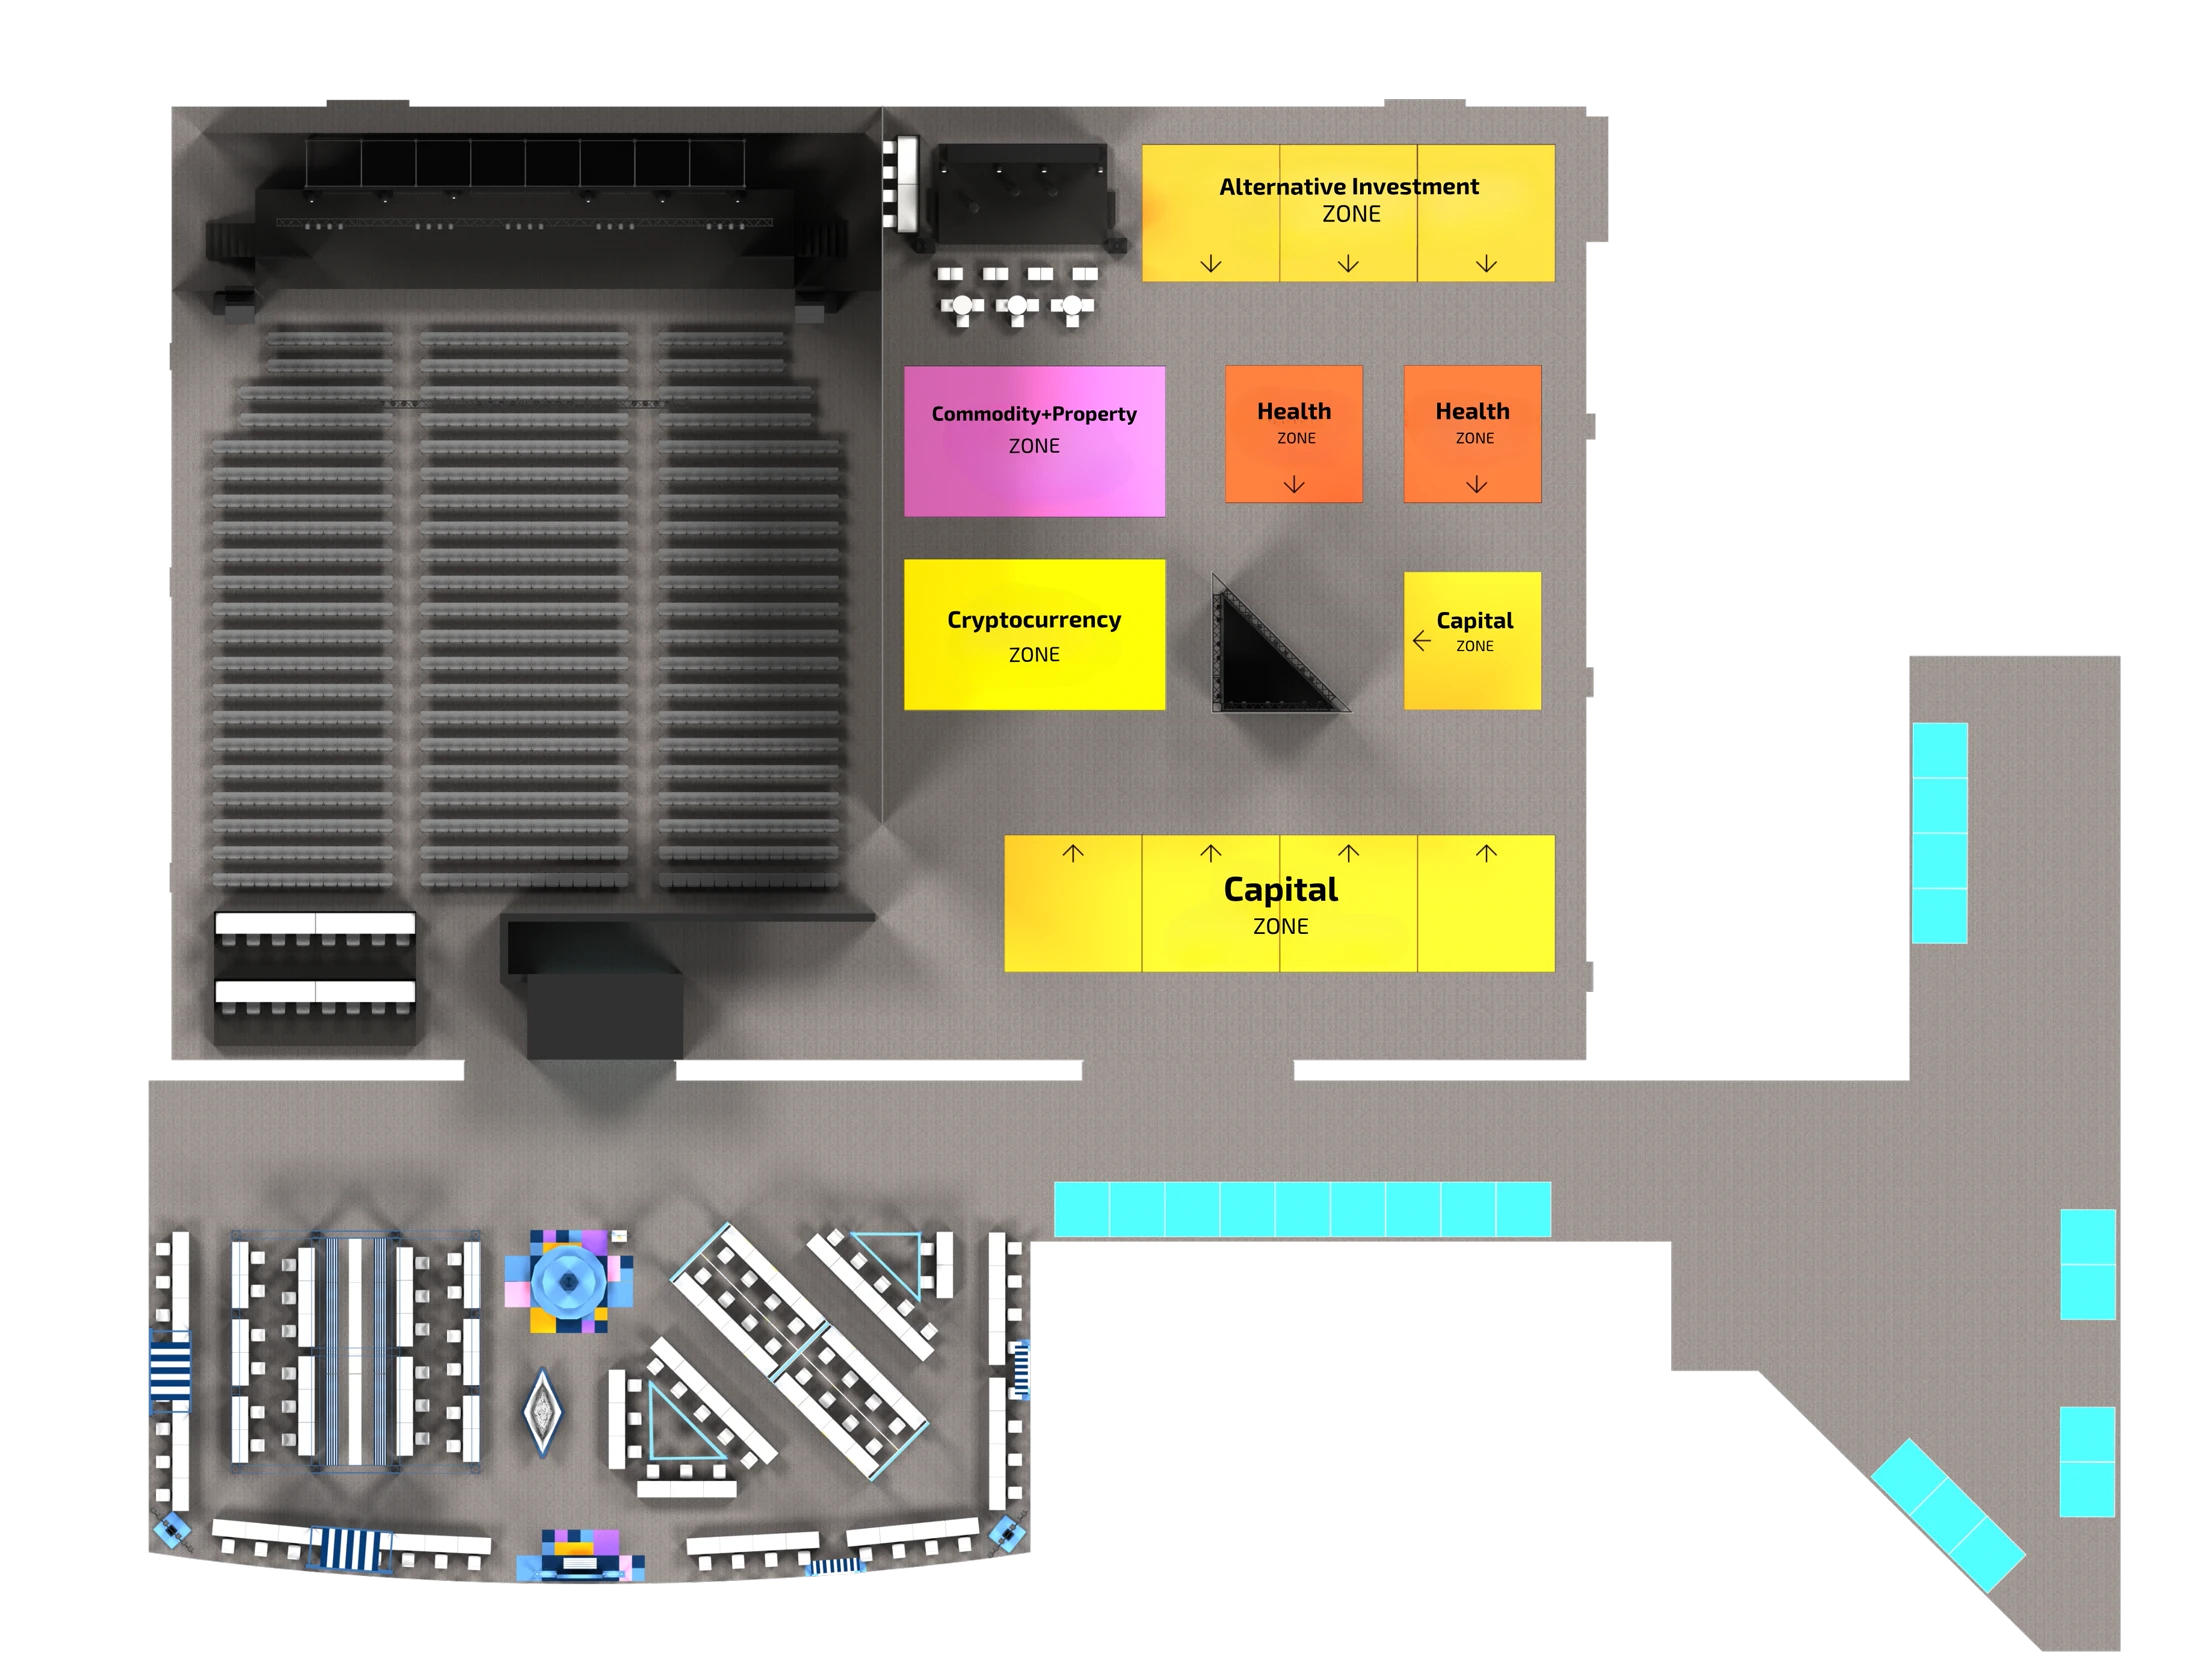
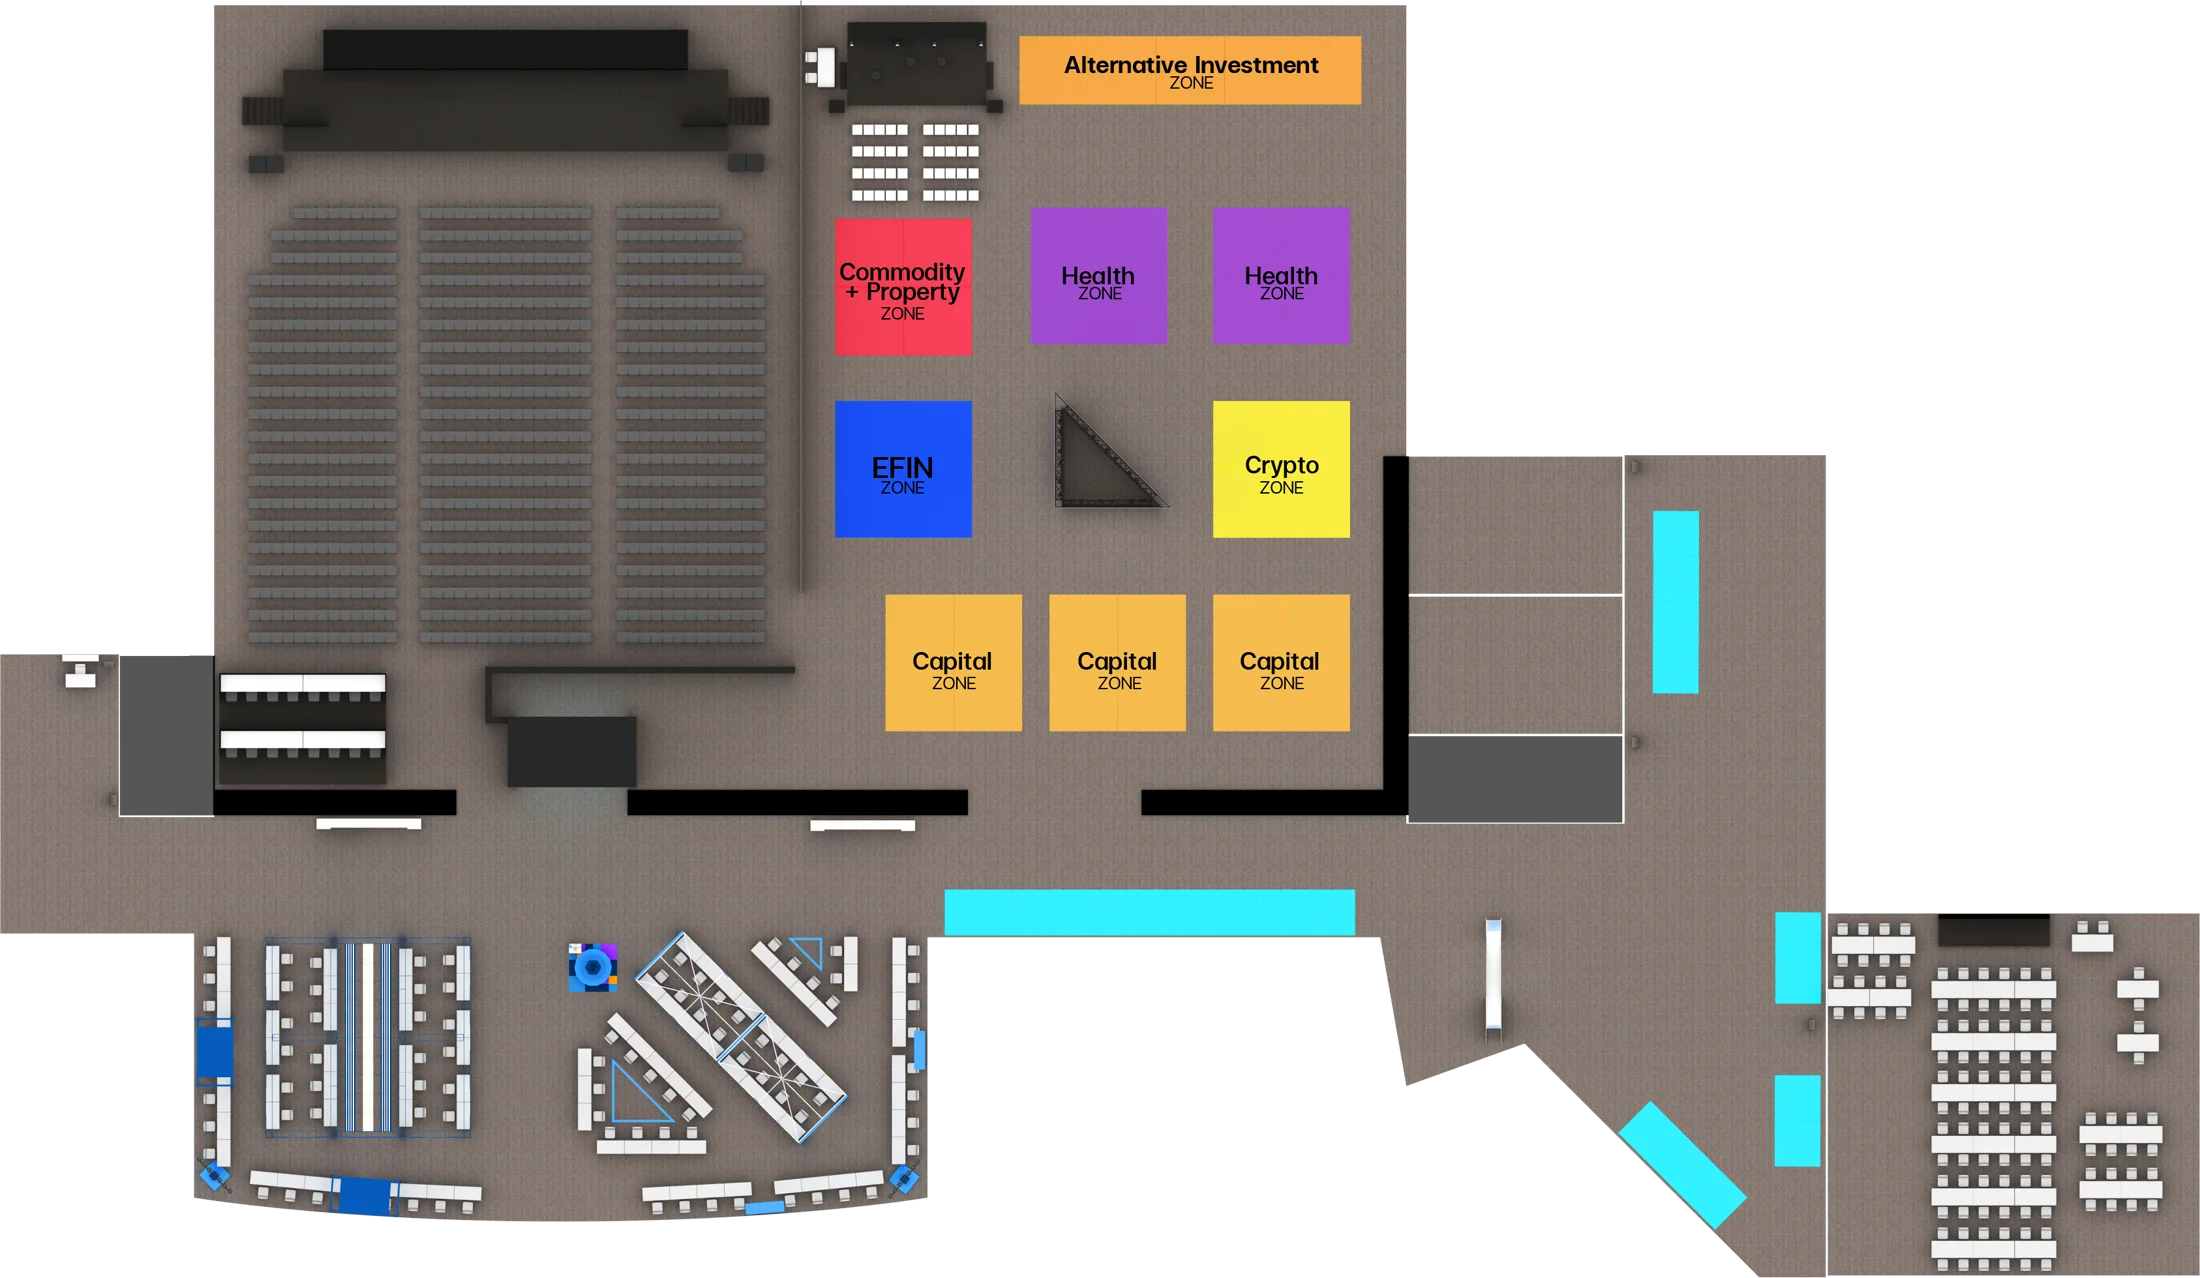
Booth walk map: swap in new floor plan (MasterBeauty), update aspect ratio + zone marker positions

diff --git a/dna-quiz-flow.html b/dna-quiz-flow.html
@@ -2247,7 +2247,7 @@ body{font-family:var(--font);background:var(--paper);color:var(--ink);font-weigh
 /* aspect-ratio matches Floorplan BTT (1).png's real 3657×2772 (2026-08-26, per direction — swapped
    in for the old square Map.png mockup) — was 1/1, which forced object-fit:cover to crop the sides
    off this wider top-down floor plan. */
-.map-ph{position:relative;border:1px solid var(--line-soft);border-radius:var(--r1);overflow:hidden;background:linear-gradient(135deg,var(--paper),var(--cloud));aspect-ratio:3657/2772;display:flex;align-items:center;justify-content:center;margin-bottom:var(--sp-stack);}
+.map-ph{position:relative;border:1px solid var(--line-soft);border-radius:var(--r1);overflow:hidden;background:linear-gradient(135deg,var(--paper),var(--cloud));aspect-ratio:3373/1960;display:flex;align-items:center;justify-content:center;margin-bottom:var(--sp-stack);}
 .map-ph .mp-in{display:flex;flex-direction:column;align-items:center;gap:var(--sp-glue);color:var(--muted);}
 .map-ph .mp-in svg{width:var(--ic-lg);height:var(--ic-lg);}
 .map-ph .mp-img{width:100%;height:100%;object-fit:cover;display:block;}
@@ -4023,7 +4023,7 @@ var LOGO_IMG={aiSymbol:'assets/aiSymbol.png',efinAiIcon:'assets/efinAiIcon.png',
 /* Real event floor plan (Floorplan BTT (1).png, 2026-08-26 per direction — replaces the earlier
    generic Map.png mockup placeholder), base64-embedded like the other images so the app stays
    self-contained. Used in the booth map card + its fullscreen lightbox. */
-var MAP_IMG="assets/MAP_IMG.webp";
+var MAP_IMG="assets/MAP_IMG.webp?v=2";
 var RADAR_AXES=['หุ้นไทย','ต่างปท.','กองทุน','คริปโต','ทอง','สุขภาพ'];
 /* Custom illustrated question/analyzing icons — replaces specific Lucide icons per direction; each compressed via in-browser canvas (no local image tool available) from a 1920x1920 source PNG down to 160x160, kept as PNG (not JPEG) to preserve alpha transparency. */
 var ICON_HOURGLASS_PNG='assets/ICON_HOURGLASS_PNG.png';
@@ -6766,12 +6766,12 @@ var BOOTH_SEL=null;
    put. `s` is the short marker label (per the spec's "Short Name / Label เมื่อจำเป็น"); the full
    name still lives on the route row. Positions read off the floor plan's own printed zone labels. */
 var BOOTH_MAP_POS={
-  'จุดแลกรับการ์ดตัวจริง':{x:40,y:15,s:'แลกการ์ด'},
-  'Capital Zone':{x:58.3,y:53.4,s:'Capital'},
-  'Crypto Zone':{x:46.9,y:38.8,s:'Crypto'},
-  'Commodity Zone':{x:46.9,y:27.4,s:'Commodity'},
-  'Alternative Investment Zone':{x:61.3,y:13.2,s:'Alternative'},
-  'Health Zone':{x:62.5,y:27.4,s:'Health'}
+  'จุดแลกรับการ์ดตัวจริง':{x:41,y:36.1,s:'แลกการ์ด'},
+  'Capital Zone':{x:51.2,y:51.6,s:'Capital'},
+  'Crypto Zone':{x:58.2,y:36.1,s:'Crypto'},
+  'Commodity Zone':{x:41,y:21.5,s:'Commodity'},
+  'Alternative Investment Zone':{x:54,y:5.5,s:'Alternative'},
+  'Health Zone':{x:58.2,y:21.5,s:'Health'}
 };
 /* 10 booths — asset / gamified game name / icon (Material→Lucide) — verbatim from BOOTHS. */
 var BOOTHS=[
